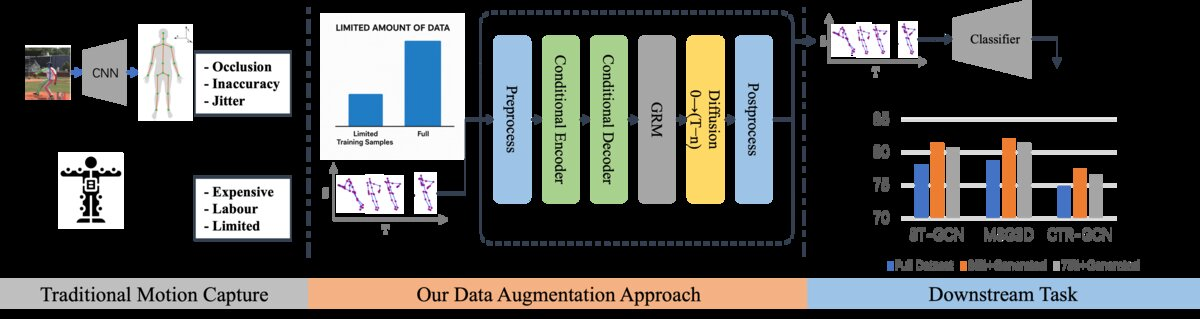
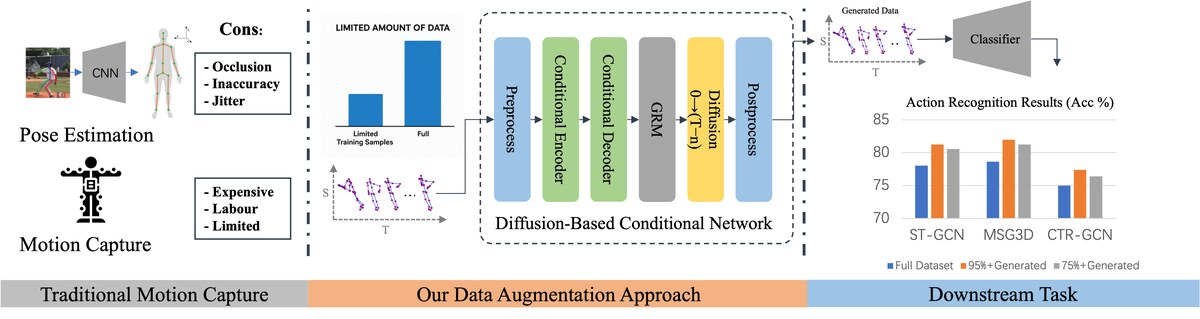
Simplify homepage style: plain bio text, fix jpg white background

diff --git a/index.html b/index.html
@@ -7,270 +7,195 @@
 <meta name="description" content="Xu Dong — PhD candidate in Innovative Media Technology, University of Surrey.">
 <link rel="preconnect" href="https://fonts.googleapis.com">
 <link rel="preconnect" href="https://fonts.gstatic.com" crossorigin>
-<link href="https://fonts.googleapis.com/css2?family=Source+Serif+4:opsz,wght@8..60,400;8..60,600;8..60,700&family=Inter:wght@400;500;600;700&display=swap" rel="stylesheet">
+<link href="https://fonts.googleapis.com/css2?family=Source+Serif+4:opsz,wght@8..60,400;8..60,600&family=Inter:wght@400;500;600&display=swap" rel="stylesheet">
 <style>
   :root{
-    --bg:#fbfaf8;
-    --surface:#ffffff;
-    --border:#e6e2da;
-    --text:#1c1a17;
-    --text-2:#57534a;
-    --text-3:#8a8478;
-    --accent:#8a3324;
-    --accent-2:#2f5233;
+    --bg:#ffffff;
+    --text:#1a1a1a;
+    --text-2:#4a4a4a;
+    --text-3:#8a8a8a;
+    --border:#e8e6e2;
     --link:#8a3324;
-    --shadow: 0 1px 2px rgba(28,26,23,0.04), 0 6px 20px rgba(28,26,23,0.05);
   }
   *,*::before,*::after{box-sizing:border-box;}
-  html{scroll-behavior:smooth;}
   body{
     margin:0;
     background:var(--bg);
     color:var(--text);
     font-family:'Inter',-apple-system,BlinkMacSystemFont,'Segoe UI',sans-serif;
-    line-height:1.6;
+    font-size:16px;
+    line-height:1.7;
     -webkit-font-smoothing:antialiased;
   }
-  a{color:var(--link);text-decoration:none;}
-  a:hover{text-decoration:underline;}
-  h1,h2,h3{font-family:'Source Serif 4', Georgia, serif; font-weight:600; color:var(--text);}
-  .wrap{max-width:920px;margin:0 auto;padding:0 24px;}
-
-  /* NAV */
-  header.site{
-    position:sticky; top:0; z-index:20;
-    background:rgba(251,250,248,0.86);
-    backdrop-filter:blur(8px);
-    border-bottom:1px solid var(--border);
-  }
-  nav.wrap{
-    display:flex;align-items:center;justify-content:space-between;
-    height:56px;
-  }
-  nav .brand{font-family:'Source Serif 4',serif;font-weight:600;font-size:17px;color:var(--text);}
-  nav .links{display:flex;gap:22px;}
-  nav .links a{font-size:14px;color:var(--text-2);font-weight:500;}
-  nav .links a:hover{color:var(--accent);text-decoration:none;}
+  a{color:var(--link);text-decoration:none;border-bottom:1px solid rgba(138,51,36,0.3);}
+  a:hover{border-bottom-color:var(--link);}
+  h1,h2{font-family:'Source Serif 4', Georgia, serif; font-weight:600; color:var(--text);}
+  .wrap{max-width:680px;margin:0 auto;padding:0 24px;}
 
   /* HERO */
-  .hero{padding:64px 0 40px;}
-  .hero-inner{display:flex;gap:36px;align-items:flex-start;flex-wrap:wrap;}
+  .hero{padding:72px 0 8px;display:flex;gap:28px;align-items:flex-start;flex-wrap:wrap;}
   .hero-photo{
-    width:148px;height:148px;border-radius:50%;
-    flex:none;
-    background:linear-gradient(140deg,#d9cfc0,#efe9df);
+    width:112px;height:112px;border-radius:50%;flex:none;
+    object-fit:cover;
+    background:#efece7;
     border:1px solid var(--border);
-    display:flex;align-items:center;justify-content:center;
-    font-family:'Source Serif 4',serif;font-size:52px;color:var(--accent);
-    box-shadow:var(--shadow);
   }
-  .hero-text{flex:1;min-width:280px;}
-  .hero-text h1{font-size:34px;margin:0 0 4px;letter-spacing:-0.01em;}
-  .hero-role{font-size:16px;color:var(--text-2);margin:0 0 16px;}
-  .hero-role .dot{margin:0 8px;color:var(--border);}
-  .hero-desc{font-size:15.5px;color:var(--text-2);max-width:620px;margin:0 0 18px;}
-  .hero-links{display:flex;flex-wrap:wrap;gap:10px 16px;font-size:14px;}
-  .hero-links a{color:var(--text-2);font-weight:500;}
-  .hero-links a:hover{color:var(--accent);}
-  .hero-links span.sep{color:var(--border);}
+  .hero-text h1{font-size:30px;margin:0 0 4px;letter-spacing:-0.01em;}
+  .hero-text .role{font-size:15px;color:var(--text-2);margin:0 0 10px;}
+  .hero-links{font-size:14px;color:var(--text-2);}
+  .hero-links a{color:var(--text-2);border-bottom-color:var(--border);}
+  .hero-links a:hover{color:var(--link);border-bottom-color:var(--link);}
+  .hero-links span.sep{color:var(--text-3);margin:0 8px;}
 
-  /* SECTION HEADINGS */
-  section{padding:8px 0 56px;}
-  .section-head{display:flex;align-items:baseline;gap:14px;margin-bottom:22px;}
-  .section-head h2{font-size:22px;margin:0;}
-  .section-head .rule{flex:1;height:1px;background:var(--border);}
-  .kicker{font-size:12px;letter-spacing:0.12em;text-transform:uppercase;color:var(--accent);font-weight:600;margin:0 0 6px;}
+  section{padding:36px 0;}
+  section + section{border-top:1px solid var(--border);}
+  h2.label{
+    font-size:12px;letter-spacing:0.1em;text-transform:uppercase;
+    font-family:'Inter',sans-serif;font-weight:600;color:var(--text-3);
+    margin:0 0 20px;
+  }
 
-  /* ABOUT */
-  .about-card{
-    background:var(--surface);border:1px solid var(--border);border-radius:12px;
-    padding:26px 28px;box-shadow:var(--shadow);
-  }
-  .about-card p{margin:0 0 14px;color:var(--text-2);font-size:15.5px;}
-  .about-card p:last-child{margin-bottom:0;}
-  .supervisors{list-style:none;margin:14px 0 0;padding:0;display:grid;gap:10px;}
-  .supervisors li{
-    display:flex;align-items:baseline;gap:8px;
-    padding:12px 14px;background:var(--bg);border:1px solid var(--border);border-radius:8px;
-    font-size:14.5px;
-  }
-  .supervisors li .role{color:var(--text-3);font-size:12.5px;min-width:78px;flex:none;text-transform:uppercase;letter-spacing:0.04em;padding-top:2px;}
-  .supervisors li a{font-weight:600;color:var(--text);}
-  .supervisors li a:hover{color:var(--accent);}
-
-  .tags{display:flex;flex-wrap:wrap;gap:8px;margin-top:16px;}
-  .tags span{
-    font-size:12.5px;color:var(--accent-2);background:#eef3ea;border:1px solid #dbe6d3;
-    padding:5px 11px;border-radius:999px;font-weight:500;
-  }
+  .bio p{margin:0 0 16px;color:var(--text-2);}
+  .bio p:last-child{margin-bottom:0;}
 
   /* PUBLICATIONS */
-  .pub-grid{display:grid;gap:20px;}
-  .pub{
-    display:grid;grid-template-columns:220px 1fr;gap:22px;
-    background:var(--surface);border:1px solid var(--border);border-radius:12px;
-    padding:18px;box-shadow:var(--shadow);
-    align-items:center;
-  }
+  .pub-list{display:flex;flex-direction:column;gap:28px;}
+  .pub{display:flex;gap:18px;align-items:flex-start;}
   .pub-thumb{
-    width:100%;aspect-ratio:16/10;border-radius:8px;overflow:hidden;
-    background:var(--bg);border:1px solid var(--border);
+    width:160px;height:100px;flex:none;border-radius:6px;overflow:hidden;
+    background:#f4f2ee;border:1px solid var(--border);
     display:flex;align-items:center;justify-content:center;
   }
   .pub-thumb img{width:100%;height:100%;object-fit:cover;display:block;}
-  .pub-thumb.empty{color:var(--text-3);font-size:12px;font-family:'Source Serif 4',serif;font-style:italic;text-align:center;padding:8px;}
-  .pub-body .venue{
-    display:inline-block;font-size:11.5px;font-weight:700;letter-spacing:0.05em;
-    color:var(--accent);background:#f6ece8;border:1px solid #ecd9d1;
-    padding:3px 9px;border-radius:5px;margin-bottom:9px;text-transform:uppercase;
-  }
-  .pub-body h3{font-size:17px;line-height:1.35;margin:0 0 8px;}
-  .pub-body .authors{font-size:13.5px;color:var(--text-2);margin:0 0 10px;}
-  .pub-body .authors .me{color:var(--text);font-weight:700;}
-  .pub-body .pub-links{font-size:13px;display:flex;gap:14px;}
-  .pub-body .pub-links a{font-weight:600;color:var(--text-2);}
-  .pub-body .pub-links a:hover{color:var(--accent);}
+  .pub-thumb.empty{color:var(--text-3);font-size:11px;font-style:italic;text-align:center;padding:6px;}
+  .pub-body .venue{font-size:12.5px;color:var(--link);font-weight:600;}
+  .pub-body h3{font-family:'Inter',sans-serif;font-weight:600;font-size:15.5px;line-height:1.4;margin:3px 0 5px;color:var(--text);}
+  .pub-body .authors{font-size:13.5px;color:var(--text-3);margin:0 0 6px;}
+  .pub-body .authors .me{color:var(--text-2);}
+  .pub-body .pub-links a{font-size:13px;font-weight:500;}
 
-  @media (max-width:640px){
-    .pub{grid-template-columns:1fr;}
-    .hero-inner{flex-direction:column;align-items:center;text-align:center;}
-    .hero-links{justify-content:center;}
-    nav .links{gap:14px;}
+  @media (max-width:520px){
+    .hero{flex-direction:column;align-items:flex-start;}
+    .pub{flex-direction:column;}
+    .pub-thumb{width:100%;height:auto;aspect-ratio:16/9;}
   }
 
   footer{
-    border-top:1px solid var(--border);
-    padding:30px 0 50px;
-    color:var(--text-3);font-size:13px;text-align:center;
+    padding:30px 0 60px;color:var(--text-3);font-size:13px;
   }
 </style>
 </head>
 <body>
 
-<header class="site">
-  <nav class="wrap">
-    <div class="brand">Xu Dong</div>
-    <div class="links">
-      <a href="#about">About</a>
-      <a href="#publications">Publications</a>
-    </div>
-  </nav>
-</header>
-
 <div class="wrap">
-  <section class="hero" id="about">
-    <div class="hero-inner">
-      <div class="hero-photo">XD</div>
-      <div class="hero-text">
-        <h1>Xu Dong</h1>
-        <p class="hero-role">Third-year PhD Candidate<span class="dot">·</span>Innovative Media Technology<span class="dot">·</span>University of Surrey</p>
-        <p class="hero-desc">
-          My research spans image and video analysis, action recognition and quality assessment,
-          generative AI for action and motion synthesis, and multimodal learning. Before my PhD,
-          I worked as an algorithm engineer building deep learning systems for intelligent retail
-          and transportation.
-        </p>
-        <div class="hero-links">
-          <a href="mailto:xd00101@surrey.ac.uk">Email</a>
-          <span class="sep">/</span>
-          <a href="https://uk.linkedin.com/in/xudong-442302166/en" target="_blank" rel="noopener">LinkedIn</a>
-          <span class="sep">/</span>
-          <a href="https://scholar.google.com/citations?hl=en&user=&view_op=search_authors&mauthors=Xu+Dong+University+of+Surrey" target="_blank" rel="noopener">Google Scholar</a>
-          <span class="sep">/</span>
-          <a href="https://github.com/dx199771" target="_blank" rel="noopener">GitHub</a>
-        </div>
-      </div>
-    </div>
-  </section>
 
-  <section id="supervision">
-    <div class="section-head"><h2>Supervisors</h2><div class="rule"></div></div>
-    <div class="about-card">
-      <p>I am supervised by a team spanning computer vision, human-centred media, and video communications:</p>
-      <ul class="supervisors">
-        <li><span class="role">Supervisor</span> <a href="https://andrewjohngilbert.github.io/" target="_blank" rel="noopener">Dr Andrew Gilbert</a></li>
-        <li><span class="role">Supervisor</span> <a href="https://www.surrey.ac.uk/people/femi-adeyemi-ejeye" target="_blank" rel="noopener">Dr Femi Adeyemi-Ejeye</a></li>
-        <li><span class="role">Supervisor</span> <a href="https://sites.google.com/view/wanqingli/home-news" target="_blank" rel="noopener">Prof Wanqing Li</a></li>
-      </ul>
-      <div class="tags">
-        <span>Image &amp; Video Analysis</span>
-        <span>Action Quality Assessment</span>
-        <span>Generative AI for Motion</span>
-        <span>Language Models &amp; Reasoning</span>
-        <span>Multimodal Learning</span>
-      </div>
+  <div class="hero">
+    <img class="hero-photo" src="assets/xu-dong.jpg" alt="Xu Dong" onerror="this.style.display='none'">
+    <div class="hero-text">
+      <h1>Xu Dong</h1>
+      <p class="role">PhD Candidate, Innovative Media Technology &middot; University of Surrey</p>
+      <p class="hero-links">
+        <a href="mailto:xd00101@surrey.ac.uk">Email</a><span class="sep">/</span><a href="https://uk.linkedin.com/in/xudong-442302166/en" target="_blank" rel="noopener">LinkedIn</a><span class="sep">/</span><a href="https://scholar.google.com/citations?hl=en&view_op=search_authors&mauthors=Xu+Dong+University+of+Surrey" target="_blank" rel="noopener">Google Scholar</a><span class="sep">/</span><a href="https://github.com/dx199771" target="_blank" rel="noopener">GitHub</a>
+      </p>
     </div>
+  </div>
+
+  <section class="bio">
+    <p>
+      I am a third-year PhD candidate in Innovative Media Technology at the
+      <a href="https://www.surrey.ac.uk/" target="_blank" rel="noopener">University of Surrey</a>,
+      advised by <a href="https://andrewjohngilbert.github.io/" target="_blank" rel="noopener">Dr Andrew Gilbert</a>,
+      <a href="https://www.surrey.ac.uk/people/femi-adeyemi-ejeye" target="_blank" rel="noopener">Dr Femi Adeyemi-Ejeye</a>,
+      and <a href="https://sites.google.com/view/wanqingli/home-news" target="_blank" rel="noopener">Prof Wanqing Li</a>.
+      My research explores image and video analysis, action recognition and quality assessment,
+      generative AI for action and motion synthesis, and multimodal learning.
+    </p>
+    <p>
+      Before starting my PhD, I spent 1.5&nbsp;years as an Algorithm Engineer at
+      <a href="https://www.aibee.com/" target="_blank" rel="noopener">Aibee Inc.</a>, developing and
+      optimising deep learning models for intelligent retail and transportation, including event
+      detection and multi-camera vehicle tracking. Since December 2024, I have also worked
+      part-time as a Research Assistant at the University of Surrey, investigating the impact of
+      network packet loss on user experience in VR-based video conferencing platforms.
+    </p>
+    <p>
+      Previously, I completed my M.Sc. in Media and Arts Technology (Distinction) at
+      <a href="https://www.qmul.ac.uk/" target="_blank" rel="noopener">Queen Mary University of London</a>,
+      supervised by Prof. Ebroul Izquierdo, and my B.Sc. in Artificial Intelligence and Computer
+      Science at the <a href="https://www.sheffield.ac.uk/" target="_blank" rel="noopener">University of Sheffield</a>.
+    </p>
   </section>
 
   <section id="publications">
-    <div class="section-head"><h2>Selected Publications</h2><div class="rule"></div></div>
-    <div class="pub-grid">
+    <h2 class="label">Selected Publications</h2>
+    <div class="pub-list">
 
       <article class="pub">
         <div class="pub-thumb empty">Figure coming soon</div>
         <div class="pub-body">
-          <span class="venue">ECCV 2026</span>
+          <div class="venue">ECCV 2026</div>
           <h3>Moving Beyond More Views: Redundancy-Aware Ego&ndash;Exo Fusion for Proficiency Estimation</h3>
           <p class="authors"><span class="me">X. Dong</span>, W. Li, A. Adeyemi-Ejeye, A. Gilbert</p>
         </div>
       </article>
 
       <article class="pub">
-        <div class="pub-thumb"><img src="assets/papers/bmvc_ijcv.jpg" alt="Interpretable AQA figure"></div>
+        <div class="pub-thumb"><img src="assets/papers/bmvc_ijcv.jpg" alt="UIL-AQA figure"></div>
         <div class="pub-body">
-          <span class="venue">IJCV 2025</span>
+          <div class="venue">IJCV 2025</div>
           <h3>UIL-AQA: Uncertainty-aware Clip-level Interpretable Action Quality Assessment</h3>
           <p class="authors"><span class="me">X. Dong</span>, X. Liu, W. Li, A. Adeyemi-Ejeye, A. Gilbert</p>
-          <div class="pub-links"><a href="https://doi.org/10.1007/s11263-025-02638-6" target="_blank" rel="noopener">Paper</a></div>
+          <p class="pub-links"><a href="https://doi.org/10.1007/s11263-025-02638-6" target="_blank" rel="noopener">Paper</a></p>
         </div>
       </article>
 
       <article class="pub">
-        <div class="pub-thumb"><img src="assets/papers/fg.jpg" alt="Generative Data Augmentation for Skeleton Action Recognition figure"></div>
+        <div class="pub-thumb"><img src="assets/papers/fg.jpg" alt="Generative Data Augmentation figure"></div>
         <div class="pub-body">
-          <span class="venue">IEEE FG 2025 &middot; Oral</span>
+          <div class="venue">IEEE FG 2025 &middot; Oral</div>
           <h3>Generative Data Augmentation for Skeleton Action Recognition</h3>
           <p class="authors"><span class="me">X. Dong</span>, W. Li, A. Adeyemi-Ejeye, A. Gilbert</p>
-          <div class="pub-links"><a href="https://arxiv.org/abs/2604.14933" target="_blank" rel="noopener">arXiv</a></div>
+          <p class="pub-links"><a href="https://arxiv.org/abs/2604.14933" target="_blank" rel="noopener">arXiv</a></p>
         </div>
       </article>
 
       <article class="pub">
         <div class="pub-thumb"><img src="assets/papers/bmvc_ijcv.jpg" alt="Interpretable Long-term AQA figure"></div>
         <div class="pub-body">
-          <span class="venue">BMVC 2024 &middot; Oral</span>
+          <div class="venue">BMVC 2024 &middot; Oral</div>
           <h3>Interpretable Long-term Action Quality Assessment</h3>
           <p class="authors"><span class="me">X. Dong</span>, X. Liu, W. Li, A. Adeyemi-Ejeye, A. Gilbert</p>
-          <div class="pub-links"><a href="https://arxiv.org/abs/2408.11687" target="_blank" rel="noopener">arXiv</a></div>
+          <p class="pub-links"><a href="https://arxiv.org/abs/2408.11687" target="_blank" rel="noopener">arXiv</a></p>
         </div>
       </article>
 
       <article class="pub">
         <div class="pub-thumb"><img src="assets/papers/tmm_gcdance.jpg" alt="GCDance figure"></div>
         <div class="pub-body">
-          <span class="venue">TMM &middot; Submitted 2025</span>
+          <div class="venue">TMM &middot; Submitted 2025</div>
           <h3>GCDance: Genre-Controlled Music-Driven 3D Full Body Dance Generation</h3>
           <p class="authors">X. Liu, <span class="me">X. Dong</span>, S. Qian, D. Kanojia, W. Wang, Z. Feng</p>
-          <div class="pub-links"><a href="https://arxiv.org/abs/2502.18309" target="_blank" rel="noopener">arXiv</a></div>
+          <p class="pub-links"><a href="https://arxiv.org/abs/2502.18309" target="_blank" rel="noopener">arXiv</a></p>
         </div>
       </article>
 
       <article class="pub">
         <div class="pub-thumb empty">Figure coming soon</div>
         <div class="pub-body">
-          <span class="venue">CVPRW 2025</span>
+          <div class="venue">CVPRW 2025</div>
           <h3>Short-term 3D Human Mesh Recovery with Virtual Markers Disentanglement</h3>
           <p class="authors">X. Kang, Y. Yuan, <span class="me">X. Dong</span>, M. Awais, L. Tang, J. Kittler, Z. Feng</p>
-          <div class="pub-links"><a href="https://openaccess.thecvf.com/content/CVPR2025W/RHOBIN/html/Kang_Short-term_3D_Human_Mesh_Recovery_with_Virtual_Markers_Disentanglement_CVPRW_2025_paper.html" target="_blank" rel="noopener">Paper</a></div>
+          <p class="pub-links"><a href="https://openaccess.thecvf.com/content/CVPR2025W/RHOBIN/html/Kang_Short-term_3D_Human_Mesh_Recovery_with_Virtual_Markers_Disentanglement_CVPRW_2025_paper.html" target="_blank" rel="noopener">Paper</a></p>
         </div>
       </article>
 
     </div>
   </section>
+
 </div>
 
 <footer>
-  &copy; 2026 Xu Dong &middot; University of Surrey
+  <div class="wrap">&copy; 2026 Xu Dong</div>
 </footer>
 
 </body>
